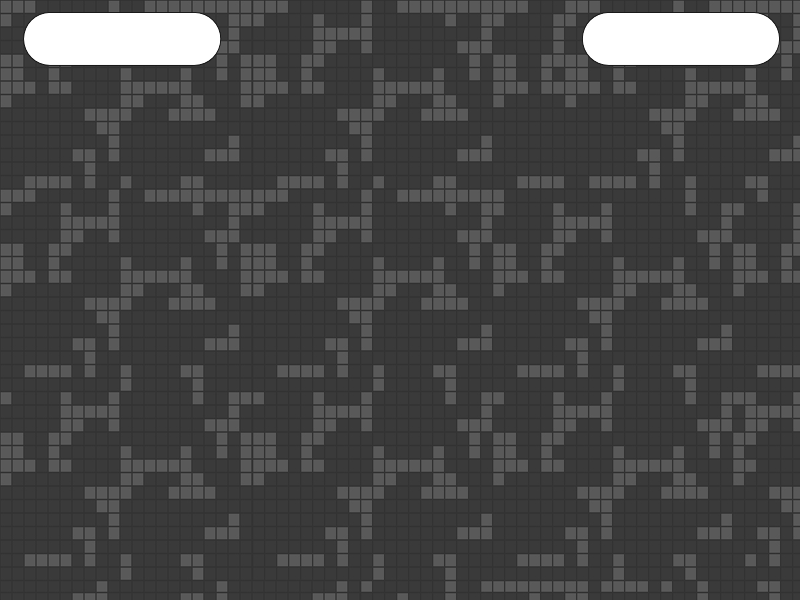
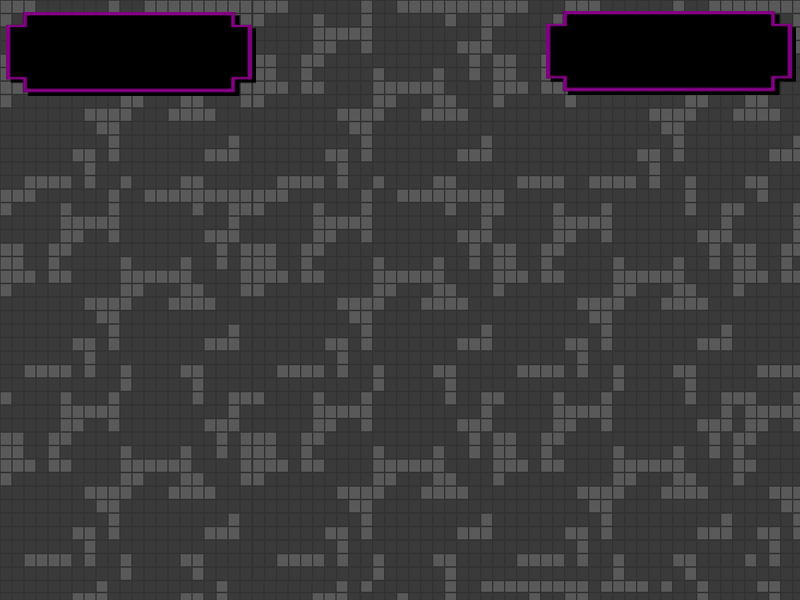
OTAVIO_ATUALIZA.

Changed region(s): [[0.0, 0.0, 0.3438, 0.18], [0.6562, 0.0, 1.0, 0.18]]

diff --git a/trunk/5 em 1/js/game_1/level/game_1_scene_level_3.js b/trunk/5 em 1/js/game_1/level/game_1_scene_level_3.js
@@ -407,13 +407,13 @@ function Game1SceneLevel3()
 		
 		//Pontos player
    		screen.font = "40px Arial";
-		screen.fillStyle="#000000";
-		screen.fillText("Pontos " + pontosplayer, 45, 52); //posicao x e y 
+		screen.fillStyle="#FFFFFF";
+		screen.fillText("Pontos " + pontosplayer, 45, 65); //posicao x e y 
 		
 		//Pontos Inimigo
 		screen.font = "40px Arial";
-		screen.fillStyle="#000000";
-		screen.fillText("Pontos " + pontosinimigo, 605, 52); //posicao x e y 
+		screen.fillStyle="#FFFFFF";
+		screen.fillText("Pontos " + pontosinimigo, 590, 65); //posicao x e y 
 		
     	//Desenhando player
     	this.player.draw();

diff --git a/trunk/5 em 1/js/game_1/level/game_1_scene_level_2.js b/trunk/5 em 1/js/game_1/level/game_1_scene_level_2.js
@@ -405,13 +405,13 @@ function Game1SceneLevel2()
 		
 		//Pontos player
    		screen.font = "40px Arial";
-		screen.fillStyle="#000000";
-		screen.fillText("Pontos " + pontosplayer, 45, 52); //posicao x e y 
+		screen.fillStyle="#FFFFFF";
+		screen.fillText("Pontos " + pontosplayer, 45, 65); //posicao x e y 
 		
 		//Pontos Inimigo
 		screen.font = "40px Arial";
-		screen.fillStyle="#000000";
-		screen.fillText("Pontos " + pontosinimigo, 605, 52); //posicao x e y
+		screen.fillStyle="#FFFFFF";
+		screen.fillText("Pontos " + pontosinimigo, 590, 65); //posicao x e y
 		
     	//Desenhando player
     	this.player.draw();
